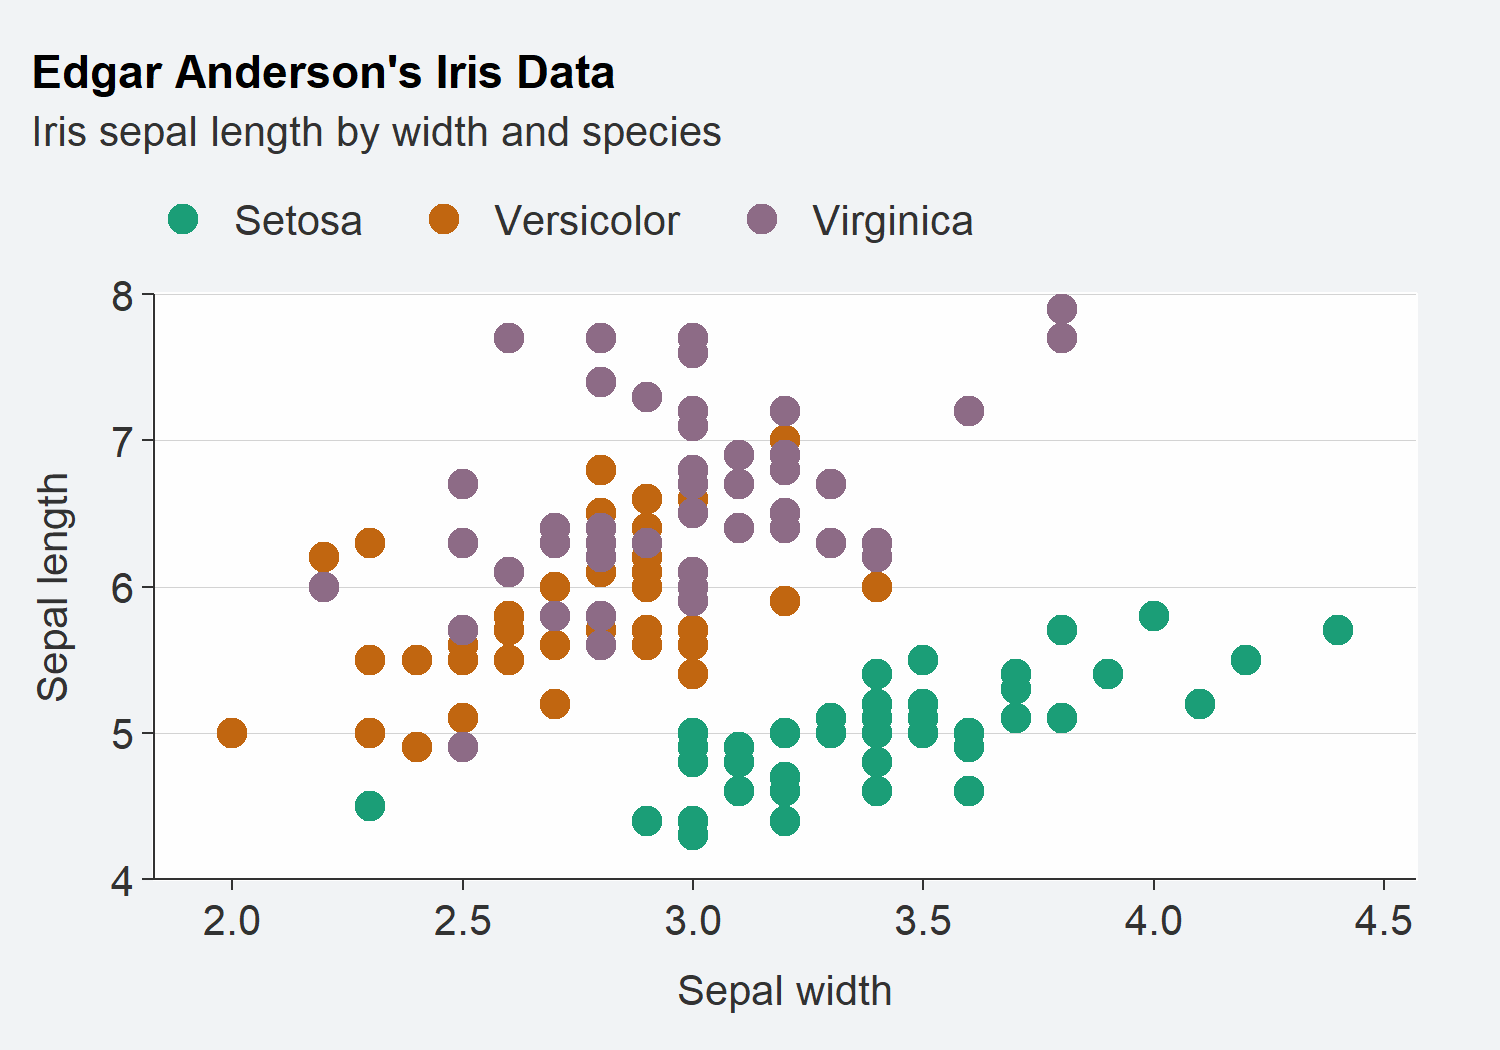
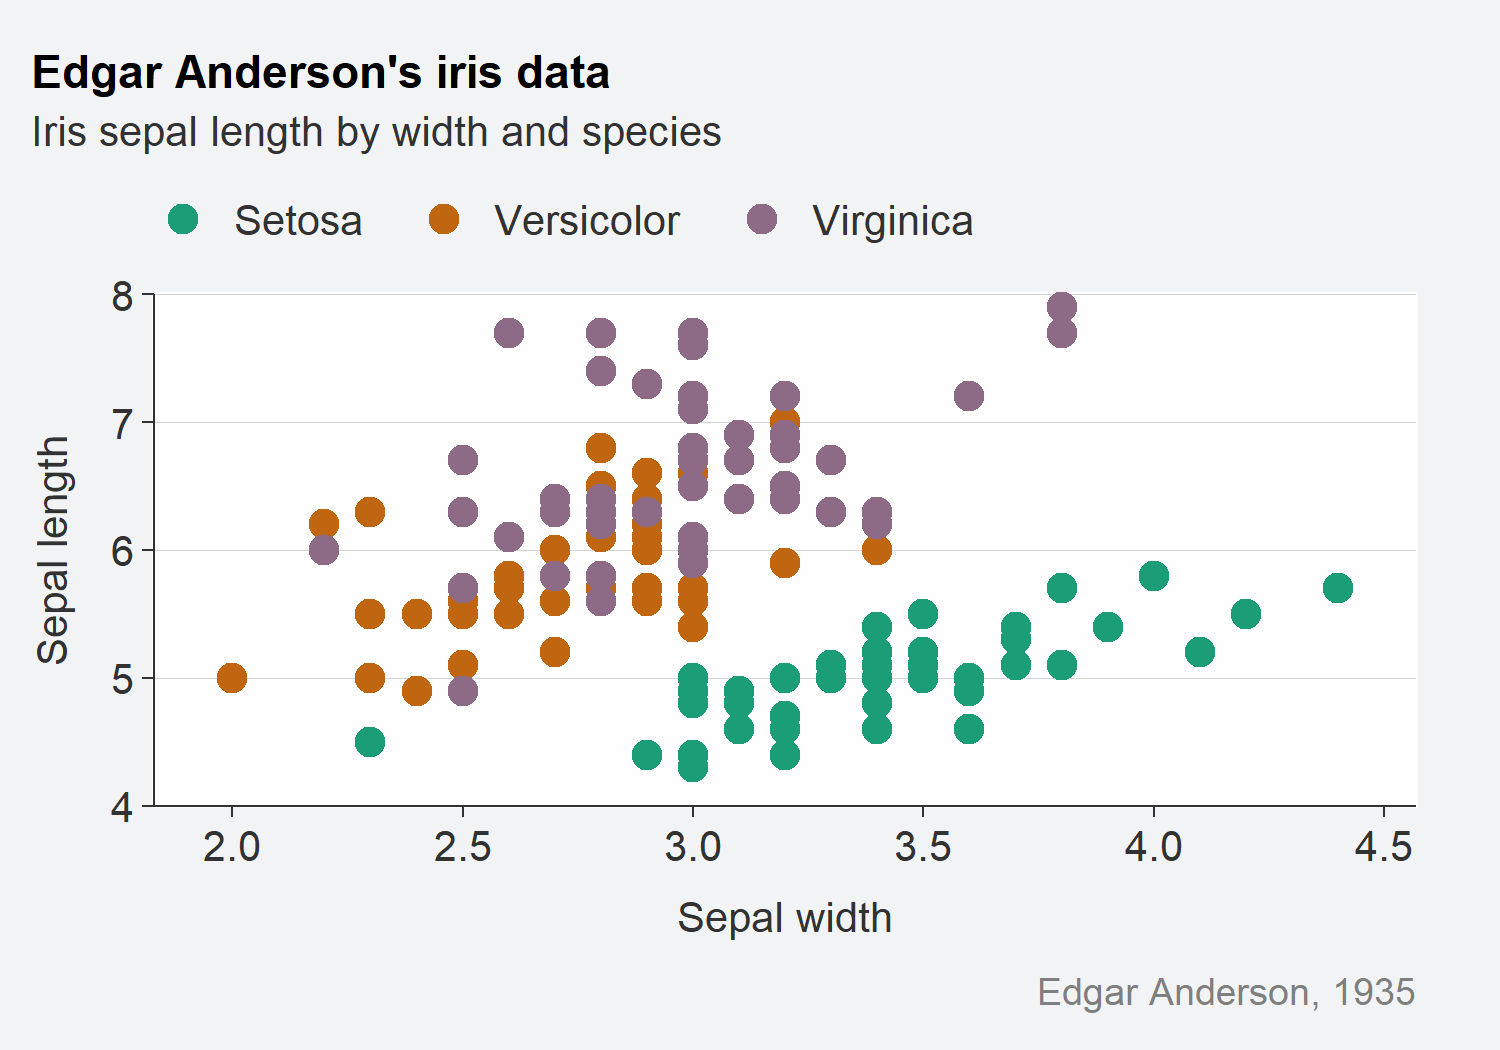
Fix #176

diff --git a/README.md b/README.md
@@ -250,22 +250,11 @@ penguins %>%
 
 9.  {ggblanket} provides a `gg_theme` function to create a quick theme.
 
-The `gg_theme` function allows you to create a quick theme that looks
-similar to the {ggblanket} look and feel.
+The `gg_theme` function allows you to create a theme that looks similar
+to the {ggblanket} look and feel.
 
-This includes the following arguments:
-
--   `grid_h` and `grid_v`: arguments for adding horizontal and vertical
-    gridlines
--   `bg_plot_pal`: an argument for the background colour of the plot
--   `bg_panel_pal`: an argument for the background colour of the panel
--   `title_*`: arguments to adjust the title
--   `subtitle_*`: arguments to adjust the subtitle
--   `body_*`: arguments to adjust all other text
--   `axis_*`: arguments to adjust the axis line
--   `ticks_*`: arguments to adjust the axis line
--   `caption_*`: arguments to adjust the caption
--   `grid_*`: other arguments to adjust the gridlines
+This includes the following arguments for adjusting gridlines,
+background colours, text and axis lines and ticks.
 
 ``` r
 storms %>%
@@ -280,8 +269,7 @@ storms %>%
     theme = gg_theme(
       bg_plot_pal = "white",
       bg_panel_pal = "white",
-      grid_h = TRUE, 
-      grid_v = TRUE))
+      grid_h = TRUE))
 ```
 
 ![](man/figures/README-unnamed-chunk-11-1.png)<!-- -->
@@ -437,8 +425,9 @@ iris %>%
     x = Sepal.Width,
     y = Sepal.Length,
     col = Species, 
-    title = "Edgar Anderson's Iris Data",
-    subtitle = "Iris sepal length by width and species"
+    title = "Edgar Anderson's iris data",
+    subtitle = "Iris sepal length by width and species",
+    caption = "Edgar Anderson, 1935"
   )
 ```
 
